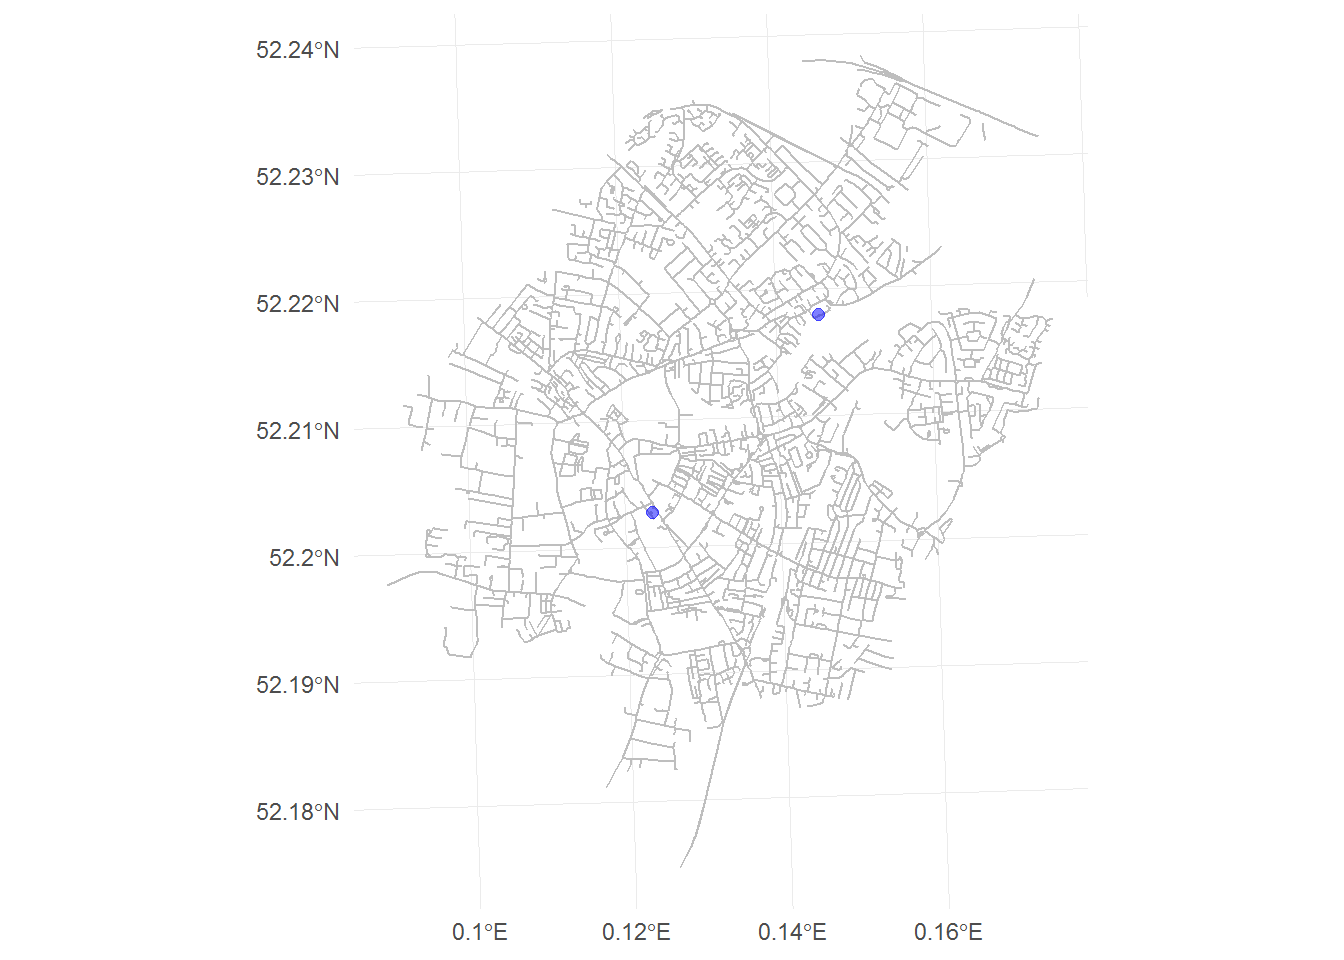
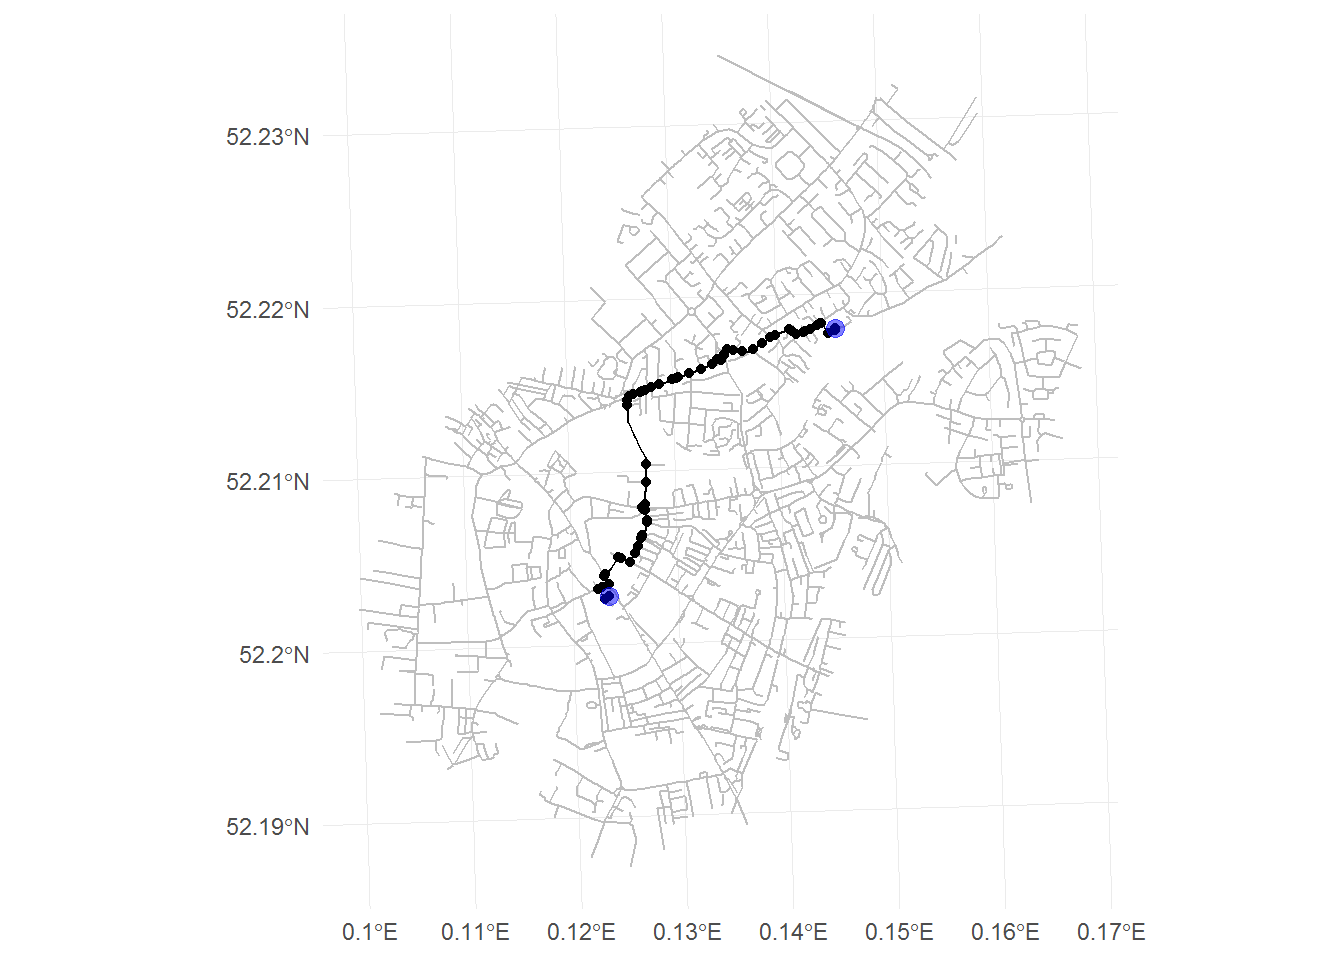
cleaning up pub crawl post pt 1

diff --git a/public/post/cambridge_pub_crawl/index.html b/public/post/cambridge_pub_crawl/index.html
@@ -706,7 +706,8 @@ journeys &lt;- lapply(seq(length(combinations)/2), function(combination) {
 <p>It’s possible to check a journey between two pubs easily using this df, and show that it does seem like igraph is finding the shortest route between the two</p>
 <pre class="r"><code>#get only the journey between two random pubs
 set.seed(3459)
-x_random_numbers &lt;- sample(nrow(pubs), 2)
+x_random_numbers &lt;- sample(nrow(pubs), 2) %&gt;%
+  sort()
 x_journey &lt;- journeys %&gt;%
   filter(journey == paste0(x_random_numbers[1], &quot;-&quot;, x_random_numbers[2]))
 
@@ -716,21 +717,22 @@ x_journey_nodes &lt;- nodes %&gt;%
                    as.character(x_journey$end_id)))
 
 #find the pubs at the start and end of this journey
-#first and sixty-ninth as defined earlier
+#random pubs as defined earlier
 x_journey_pubs &lt;- pubs[x_random_numbers,]
 
-#get all roads within the crow-distance btween each pub
-x_local_roads &lt;- roads[unlist(st_intersects(
-  st_buffer(x_journey_pubs, max(as.numeric(st_distance(x_journey_pubs)))),
-  roads
-  )),]
+#get all roads within a kilometer of each pub
+x_local_roads &lt;- roads %&gt;%
+  .[unlist(st_intersects(
+    #select all roads that at least will be between the two pubs
+    st_buffer(x_journey_pubs, max(st_distance(x_journey_pubs)/1.5)
+  ), .)),]
 
 #plot the shortest path between these two pubs
 (p4 &lt;- ggplot() +
     geom_sf(data = x_local_roads, colour = &quot;grey&quot;) +
     geom_sf(data = x_journey_nodes, colour = &quot;black&quot;) +
     geom_sf(data = x_journey, colour = &quot;black&quot;) +
-    geom_sf(data = x_journey_pubs, colour = &quot;blue&quot;, alpha = 0.5, size = 2) +
+    geom_sf(data = x_journey_pubs, colour = &quot;blue&quot;, alpha = 0.5, size = 3) +
     theme_minimal())</code></pre>
 <p><img src="/post/2018-11-22-cambridge_pub_crawl_files/figure-html/check_shortest_paths-1.png" width="672" /></p>
 <pre class="r"><code>#remove all the extra objects we created in the example
@@ -792,7 +794,7 @@ journeys &lt;- rbind(journeys, rev_journeys) %&gt;%
 tour_strings &lt;- paste0(tour, &quot;-&quot;, lead(tour)) %&gt;%
   .[-grep(&quot;NA&quot;, .)] %&gt;%
   data.frame(journey = .,
-             order = 1:length(.))
+             journey_order = 1:length(.))
 
 #use this to find each vertex that needs traversing in order to complete
 #the shortest tour of all pubs
@@ -803,12 +805,15 @@ shortest_tour &lt;- journeys[which(journeys$journey %in% tour_strings$journey),]
 <pre class="r"><code>(p5 &lt;- ggplot(data = shortest_tour) +
   geom_sf(data = cambridge) +
   geom_sf(data = roads, size = 0.5) + 
-  geom_sf(colour = &quot;red&quot;, size = 1.5, alpha = 0.7) +
+  geom_sf(aes(colour = journey_order), size = 1.5, alpha = 0.7) +
+  scale_colour_gradient(high = &quot;darkred&quot;, low = &quot;orange&quot;, name = &quot;journey order&quot;) +
   geom_sf(data = pubs, colour = &quot;blue&quot;, size = 1.5) +
   theme_minimal() +
   ggtitle(&quot;Hamiltonian Path of Every Pub in the City of Cambridge&quot;))</code></pre>
 <p><img src="/post/2018-11-22-cambridge_pub_crawl_files/figure-html/plot_shortest_tour-1.png" width="672" /></p>
-<p>As it turns out, you’d want to start in Trumpington at The Lord Byron Inn and then get into central Cambridge where you dart around a lot before heading out to the north and finally the east at The Red Lion in Cherry Hinton. All together this script calculates a distances of 40km (to be ‘exact’) to visit every pub, which is actually kind of doable in a single day (if you forgo the drinking).</p>
+<p>As it turns out, you’d want to start in Trumpington at The Lord Byron Inn and then get into central Cambridge where you dart around a lot before heading out to the north and finally the east at The Red Lion in Cherry Hinton.</p>
+<p>A bigger image of the above can be found at imgure <a href="https://i.imgur.com/r18SG2B.png">here</a></p>
+<p>All together this script calculates a distances of ~41km (give or take probably quite a bit) to visit every pub, which is actually kind of doable in a single day (if you forgo [at least some of] the drinking).</p>
 
       </div>
 

diff --git a/content/post/2018-11-22-cambridge_pub_crawl.html b/content/post/2018-11-22-cambridge_pub_crawl.html
@@ -397,7 +397,8 @@ journeys &lt;- lapply(seq(length(combinations)/2), function(combination) {
 <p>It’s possible to check a journey between two pubs easily using this df, and show that it does seem like igraph is finding the shortest route between the two</p>
 <pre class="r"><code>#get only the journey between two random pubs
 set.seed(3459)
-x_random_numbers &lt;- sample(nrow(pubs), 2)
+x_random_numbers &lt;- sample(nrow(pubs), 2) %&gt;%
+  sort()
 x_journey &lt;- journeys %&gt;%
   filter(journey == paste0(x_random_numbers[1], &quot;-&quot;, x_random_numbers[2]))
 
@@ -407,21 +408,22 @@ x_journey_nodes &lt;- nodes %&gt;%
                    as.character(x_journey$end_id)))
 
 #find the pubs at the start and end of this journey
-#first and sixty-ninth as defined earlier
+#random pubs as defined earlier
 x_journey_pubs &lt;- pubs[x_random_numbers,]
 
-#get all roads within the crow-distance btween each pub
-x_local_roads &lt;- roads[unlist(st_intersects(
-  st_buffer(x_journey_pubs, max(as.numeric(st_distance(x_journey_pubs)))),
-  roads
-  )),]
+#get all roads within a kilometer of each pub
+x_local_roads &lt;- roads %&gt;%
+  .[unlist(st_intersects(
+    #select all roads that at least will be between the two pubs
+    st_buffer(x_journey_pubs, max(st_distance(x_journey_pubs)/1.5)
+  ), .)),]
 
 #plot the shortest path between these two pubs
 (p4 &lt;- ggplot() +
     geom_sf(data = x_local_roads, colour = &quot;grey&quot;) +
     geom_sf(data = x_journey_nodes, colour = &quot;black&quot;) +
     geom_sf(data = x_journey, colour = &quot;black&quot;) +
-    geom_sf(data = x_journey_pubs, colour = &quot;blue&quot;, alpha = 0.5, size = 2) +
+    geom_sf(data = x_journey_pubs, colour = &quot;blue&quot;, alpha = 0.5, size = 3) +
     theme_minimal())</code></pre>
 <p><img src="/post/2018-11-22-cambridge_pub_crawl_files/figure-html/check_shortest_paths-1.png" width="672" /></p>
 <pre class="r"><code>#remove all the extra objects we created in the example
@@ -483,7 +485,7 @@ journeys &lt;- rbind(journeys, rev_journeys) %&gt;%
 tour_strings &lt;- paste0(tour, &quot;-&quot;, lead(tour)) %&gt;%
   .[-grep(&quot;NA&quot;, .)] %&gt;%
   data.frame(journey = .,
-             order = 1:length(.))
+             journey_order = 1:length(.))
 
 #use this to find each vertex that needs traversing in order to complete
 #the shortest tour of all pubs
@@ -494,9 +496,12 @@ shortest_tour &lt;- journeys[which(journeys$journey %in% tour_strings$journey),]
 <pre class="r"><code>(p5 &lt;- ggplot(data = shortest_tour) +
   geom_sf(data = cambridge) +
   geom_sf(data = roads, size = 0.5) + 
-  geom_sf(colour = &quot;red&quot;, size = 1.5, alpha = 0.7) +
+  geom_sf(aes(colour = journey_order), size = 1.5, alpha = 0.7) +
+  scale_colour_gradient(high = &quot;darkred&quot;, low = &quot;orange&quot;, name = &quot;journey order&quot;) +
   geom_sf(data = pubs, colour = &quot;blue&quot;, size = 1.5) +
   theme_minimal() +
   ggtitle(&quot;Hamiltonian Path of Every Pub in the City of Cambridge&quot;))</code></pre>
 <p><img src="/post/2018-11-22-cambridge_pub_crawl_files/figure-html/plot_shortest_tour-1.png" width="672" /></p>
-<p>As it turns out, you’d want to start in Trumpington at The Lord Byron Inn and then get into central Cambridge where you dart around a lot before heading out to the north and finally the east at The Red Lion in Cherry Hinton. All together this script calculates a distances of 40km (to be ‘exact’) to visit every pub, which is actually kind of doable in a single day (if you forgo the drinking).</p>
+<p>As it turns out, you’d want to start in Trumpington at The Lord Byron Inn and then get into central Cambridge where you dart around a lot before heading out to the north and finally the east at The Red Lion in Cherry Hinton.</p>
+<p>A bigger image of the above can be found at imgure <a href="https://i.imgur.com/r18SG2B.png">here</a></p>
+<p>All together this script calculates a distances of ~41km (give or take probably quite a bit) to visit every pub, which is actually kind of doable in a single day (if you forgo [at least some of] the drinking).</p>
